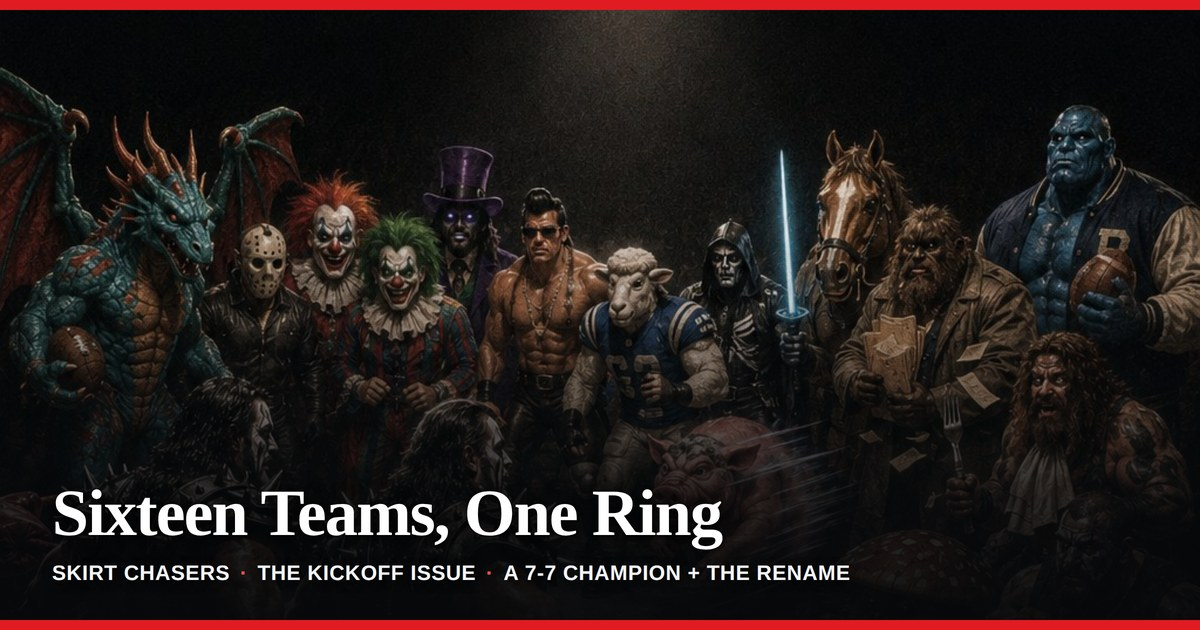
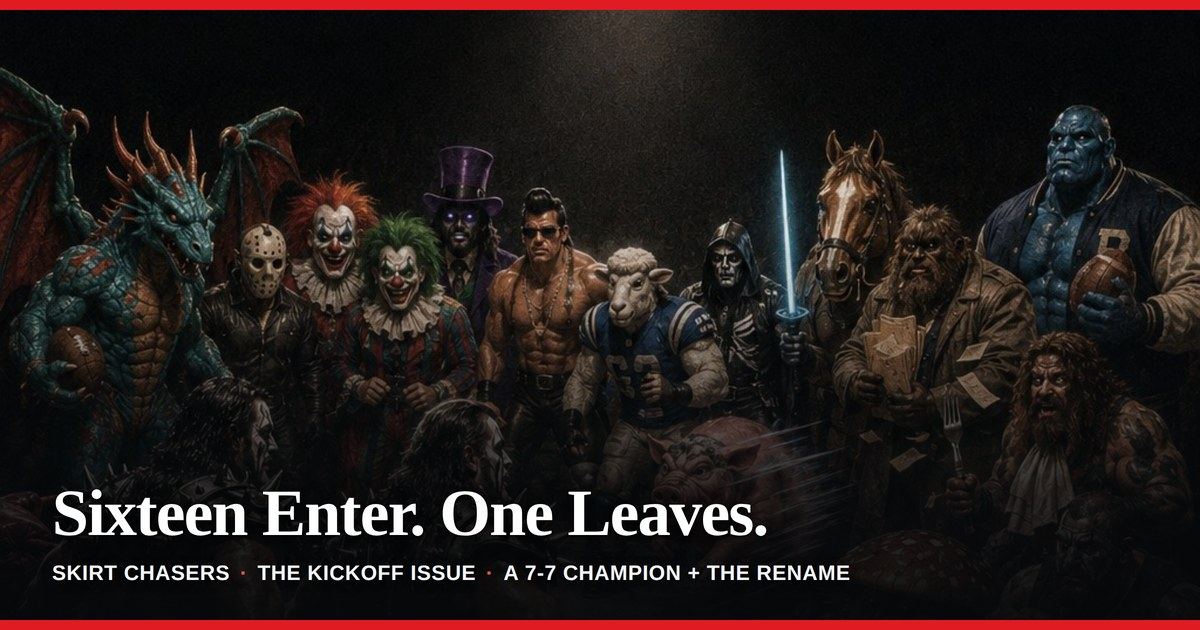
Kickoff cover: more hype
The coverlines read like a broadsheet on an issue whose cover is sixteen
monsters in a wrestling ring. Rewritten to match the art:

  Sixteen Enter. One Leaves.

with coverlines that lead on the stakes rather than the numbers -- the
champion nobody fears, one of these men loses his name, the group of
death, who's loaded and who's cooked. Every claim is still one the issue
backs up: 7-7 and holding the ring, the 821-point rename, the three
biggest offences sharing a division, all sixteen previewed, 2,344 games
of head-to-head.

Adds scripts/build_og.py so the share card is regenerated from the same
config as the cover instead of being assembled by hand -- the hook was
already drifting between the two.

Changed region(s): [[0.2158, 0.754, 0.6475, 0.8746]]

diff --git a/scfl-kickoff-2026.html b/scfl-kickoff-2026.html
@@ -6,12 +6,12 @@
 <meta property="og:type" content="article">
 <meta property="og:site_name" content="Skirt Chasers — Dynasty League Magazine">
 <meta property="og:title" content="Skirt Chasers — The 2026 Kickoff Issue">
-<meta property="og:description" content="A 7-7 champion, a name change decided by 207 points, the division that holds the three best offences in the league, and all sixteen teams previewed.">
+<meta property="og:description" content="Sixteen teams enter. One leaves with the ring. A 7-7 champion with a target on his back, a rename decided by 207 points, the division that will eat two contenders alive, and all sixteen scouted.">
 <meta property="og:url" content="https://watsoncapitalinvest-dot.github.io/Claude/scfl-kickoff-2026.html">
 <meta property="og:image" content="https://watsoncapitalinvest-dot.github.io/Claude/scfl-kickoff-og.jpg">
 <meta name="twitter:card" content="summary_large_image">
 <meta name="twitter:title" content="Skirt Chasers — The 2026 Kickoff Issue">
-<meta name="twitter:description" content="The 2026-27 SCFL season starts here.">
+<meta name="twitter:description" content="Sixteen enter. One leaves. The 2026-27 SCFL season starts here.">
 <meta name="twitter:image" content="https://watsoncapitalinvest-dot.github.io/Claude/scfl-kickoff-og.jpg">
 <link rel="icon" href="newsroom-favicon.png">
 <style>
@@ -114,7 +114,7 @@ p.b b{color:var(--ink);}
 </head>
 <body>
 <div class="book"><div class="pages">
-<section class="page cover-page"><div class="magcover" style="--teaser:url('scfl-kickoff-cover.jpg')"><div class="cov-top"><img class="mag-logo" src="wordmark.png" alt="Skirt Chasers — Dynasty League Magazine"><div class="mag-issue">2026&ndash;27 Season &middot; The Kickoff Issue</div><div class="preseal">Kickoff<small>Issue</small></div></div><div class="cov-bottom"><div class="mag-hook">Sixteen Teams, One Ring</div><div class="mag-name">The champion who lost more than he won, the rename nobody wants, and the division that eats its own.</div><div class="mag-lines"><div class="mag-line">THE CHAMPION: 7-7, THE FEWEST POINTS IN THE FIELD</div><div class="mag-line">THE RENAME: 821 TO 1,028, AND THE HITTERS WEAR IT</div><div class="mag-line">BLACK AND BLUE: THE THREE BEST OFFENCES, ONE DIVISION</div><div class="mag-line">THE PREVIEW: ALL SIXTEEN TEAMS, GRADED AND RANKED</div><div class="mag-line">THE GRUDGE REPORT: 2,344 GAMES, EVERY RIVALRY RANKED</div></div><img class="mag-shield" src="scfl-shield.png" alt="SCFL"></div></div></section>
+<section class="page cover-page"><div class="magcover" style="--teaser:url('scfl-kickoff-cover.jpg')"><div class="cov-top"><img class="mag-logo" src="wordmark.png" alt="Skirt Chasers — Dynasty League Magazine"><div class="mag-issue">2026&ndash;27 Season &middot; The Kickoff Issue</div><div class="preseal">Kickoff<small>Issue</small></div></div><div class="cov-bottom"><div class="mag-hook">Sixteen Enter. One Leaves.</div><div class="mag-name">A 7-7 champion with a target on his back, a division that will eat two contenders alive, and one man about to lose his name.</div><div class="mag-lines"><div class="mag-line">THE CHAMPION NOBODY FEARS: 7-7, AND HE STILL HAS THE RING</div><div class="mag-line">ONE OF THESE MEN LOSES HIS NAME</div><div class="mag-line">THE GROUP OF DEATH: THREE MONSTER OFFENCES, ONE DIVISION</div><div class="mag-line">ALL 16 SCOUTED: WHO&rsquo;S LOADED, WHO&rsquo;S COOKED</div><div class="mag-line">THE GRUDGE REPORT: 2,344 GAMES, EVERY RIVALRY RANKED</div></div><img class="mag-shield" src="scfl-shield.png" alt="SCFL"></div></div></section>
 <section class="page"><div class="page-inner"><div class="runhead">Skirt Chasers &middot; The Kickoff Issue &middot; August 2026</div><span class="flag">In this issue</span><h1 class="hl">The 2026 Kickoff Issue</h1><ul class="toc"><li><span class="n">1</span><span class="t">The Champion Who Lost More Than He Won<span class="k">THE DEFENDING CHAMPION</span></span></li><li><span class="n">2</span><span class="t">Two Wins, Eight Hundred and Twenty-One Points, One New Name<span class="k">THE NAME CHANGE</span></span></li><li><span class="n">3</span><span class="t">Everything Good Is in One Division<span class="k">THE GROUP OF DEATH</span></span></li><li><span class="n">4</span><span class="t">All Sixteen, Division by Division<span class="k">THE SEASON PREVIEW</span></span></li><li><span class="n">5</span><span class="t">The Grudge Report<span class="k">SPECIAL REPORT — THE RIVALRY AUDIT</span></span></li><li><span class="n">6</span><span class="t">The Man Who Would Not Sell<span class="k">SPECIAL FEATURE — THE HILL STANDOFF</span></span></li></ul></div></section>
 <section class="page"><div class="page-inner"><div class="runhead">Skirt Chasers &middot; The Kickoff Issue &middot; August 2026</div><div class="divider"><div class="d-flag">THE DEFENDING CHAMPION</div><div class="d-h">The Champion Who Lost More Than He Won</div><div class="d-s">The Powers of Pain won the 2025 title at 7-7 with the fewest points of any team in the field. The format left the door open. He walked through it.</div><div class="d-rule"></div></div><p class="b">Here is the 2025 season in one line. The Powers of Pain finished 7-7. He scored 1,183 points, fewer than any other team that made the playoffs and fewer than four teams that missed. He is the champion.</p><p class="b">None of that is a scandal, and none of it is an accident. It is the format doing exactly what the format was built to do, and it is worth understanding before anybody sets a lineup this year.</p><div class="sect">How It Happens</div><p class="b">Eight teams qualify: the four division winners, plus two wild cards from each conference. Win your division and you are in, and you are seeded above every wild card no matter what the record says. The Powers of Pain came out of the Spectre Syndicate at 7-7, from a division where the Guido Haters also finished 7-7 and Still The Cream finished 2-12. Somebody had to come out of it.</p></div></section>
 <section class="page"><div class="page-inner"><div class="runhead">Skirt Chasers &middot; The Kickoff Issue &middot; August 2026</div><p class="b">What the format rewards is not being the best team in the league across fourteen weeks. It is being the best team in three particular ones.</p><p class="b">He was. That is the whole point of a postseason, and anyone who wants to be sour about it should look at the 2024 champion, the Killer Klowns, who won the whole thing at 6-8.</p><div class="sect">What It Means For 2026</div><p class="b">Two things, and they pull in opposite directions.</p><p class="b">The first is that a division title is worth more in this league than in almost any comparable format. It is not a tiebreaker or a banner — it is a seed, and the seed is the whole tournament. Four of the sixteen teams in this league will get in on a technicality this year. Do not spend December scoreboard-watching for a wild card if you can simply win four games in your own division.</p><p class="b">The second is that the Powers of Pain has to do it again from a harder position. He is no longer the surprise. He has the trophy, he has the target, and he is in a division with the Guido Haters, who matched his record last year, and a Still The Cream side that just drew the best draft grade in the league.</p></div></section>
@@ -159,5 +159,5 @@ function prev(){if(busy||cur<=0)return;busy=true;hideHint();var leaf=pages[cur-1
 function hideHint(){if(hint){hint.classList.add('gone');setTimeout(function(){hint&&hint.remove&&hint.remove();},700);hint=null;}}
 nextB.addEventListener('click',next);prevB.addEventListener('click',prev);document.addEventListener('keydown',function(ev){if(ev.key==='ArrowRight')next();else if(ev.key==='ArrowLeft')prev();});
 var sx=0,sy=0,axis='';document.addEventListener('touchstart',function(ev){var t=ev.touches[0];sx=t.clientX;sy=t.clientY;axis='';},{passive:true});document.addEventListener('touchmove',function(ev){var t=ev.touches[0];var dx=t.clientX-sx,dy=t.clientY-sy;if(!axis&&(Math.abs(dx)>10||Math.abs(dy)>10))axis=Math.abs(dx)>Math.abs(dy)?'x':'y';if(axis==='x')ev.preventDefault();},{passive:false});document.addEventListener('touchend',function(ev){var t=ev.changedTouches[0];var dx=t.clientX-sx;if(axis==='x'&&Math.abs(dx)>55){if(ev.cancelable)ev.preventDefault();if(dx<0)next();else prev();}},{passive:false});settle();})();</script>
-<script>document.getElementById("shareBtn").addEventListener("click",async function(){var u=location.href.split("#")[0];var data={title:"Skirt Chasers \u2014 The 2026 Kickoff Issue",text:"The 2026-27 SCFL season starts here.",url:u};if(navigator.share){try{await navigator.share(data);return;}catch(e){if(e&&e.name==="AbortError")return;}}try{await navigator.clipboard.writeText(u);}catch(e){}var b=this,t=b.textContent;b.textContent="\u2713 Link copied";setTimeout(function(){b.textContent=t;},1800);});</script>
+<script>document.getElementById("shareBtn").addEventListener("click",async function(){var u=location.href.split("#")[0];var data={title:"Skirt Chasers \u2014 The 2026 Kickoff Issue",text:"Sixteen enter. One leaves. The 2026-27 SCFL season starts here.",url:u};if(navigator.share){try{await navigator.share(data);return;}catch(e){if(e&&e.name==="AbortError")return;}}try{await navigator.clipboard.writeText(u);}catch(e){}var b=this,t=b.textContent;b.textContent="\u2713 Link copied";setTimeout(function(){b.textContent=t;},1800);});</script>
 </body></html>

diff --git a/scripts/build_og.py b/scripts/build_og.py
@@ -1,0 +1,89 @@
+#!/usr/bin/env python3
+"""Render an issue's share card.
+
+    python3 scripts/build_og.py kickoff-2026
+
+House format, matching scfl-postdraft-og.jpg: 1200x630, red bars top and
+bottom, the issue's hook in white serif at the bottom left, and a line of
+caps beneath it with red middots. Reads the hook straight out of
+build_issue.ISSUES so the card and the cover never drift apart.
+
+Rendered in the browser rather than drawn with PIL so the type matches the
+site's own font stack.
+"""
+import importlib.util, os, re, subprocess, sys, tempfile
+
+ROOT = os.path.dirname(os.path.dirname(os.path.abspath(__file__)))
+PORT = 8991
+BROWSER = '/opt/pw-browsers/chromium'
+
+spec = importlib.util.spec_from_file_location('bi', os.path.join(ROOT, 'scripts', 'build_issue.py'))
+bi = importlib.util.module_from_spec(spec)
+spec.loader.exec_module(bi)
+
+# The strip of the cover art the card crops to, as a background-position Y.
+FOCUS = {'kickoff-2026': '34%'}
+
+CARD = """<style>
+*{{margin:0;padding:0;box-sizing:border-box}}
+html,body{{width:1200px;height:630px;overflow:hidden}}
+.card{{position:relative;width:1200px;height:630px;overflow:hidden;background:#0b0f14;
+ border-top:10px solid #e11b22;border-bottom:10px solid #e11b22}}
+.art{{position:absolute;inset:0;background:url('{art}') center {focus}/cover no-repeat}}
+.scrim{{position:absolute;inset:0;background:linear-gradient(180deg,rgba(6,8,10,.30) 0%,
+ rgba(6,8,10,0) 22%,rgba(6,8,10,.18) 48%,rgba(6,8,10,.80) 78%,rgba(6,8,10,.96) 100%)}}
+.txt{{position:absolute;left:52px;right:52px;bottom:34px}}
+.hook{{font-family:Georgia,'Liberation Serif','Times New Roman',serif;font-weight:700;
+ font-size:{size}px;line-height:.95;letter-spacing:-1.5px;color:#fff;
+ text-shadow:0 3px 22px rgba(0,0,0,.95),0 1px 3px rgba(0,0,0,.9)}}
+.line{{margin-top:16px;font-family:Helvetica,'Liberation Sans',Arial,sans-serif;font-weight:700;
+ font-size:21px;letter-spacing:.5px;text-transform:uppercase;color:#f3f5f8;
+ text-shadow:0 2px 10px rgba(0,0,0,.98)}}
+.line i{{font-style:normal;color:#ff5442;padding:0 10px}}
+</style>
+<div class="card"><div class="art"></div><div class="scrim"></div>
+<div class="txt"><div class="hook">{hook}</div><div class="line">{line}</div></div></div>"""
+
+SHOT = """const {{chromium}}=require('playwright');
+(async()=>{{
+const b=await chromium.launch({{executablePath:'%s'}});
+const p=await b.newPage({{viewport:{{width:1200,height:630}},deviceScaleFactor:2}});
+await p.goto('http://127.0.0.1:%d/{tmp}',{{waitUntil:'networkidle'}});
+await p.waitForTimeout(600);
+await p.screenshot({{path:'{out}'}});
+await b.close();
+}})();""" % (BROWSER, PORT)
+
+
+def build(key):
+    cfg = bi.ISSUES[key]
+    art = cfg['art']
+    if not os.path.exists(os.path.join(ROOT, art)):
+        sys.exit(f'cover art {art} not present — nothing to make a card from')
+
+    line = '<i>&middot;</i>'.join(cfg['ogline'])
+    hook = cfg['hook']
+    size = 66 if len(hook) <= 28 else 56
+
+    tmp = '.og-tmp.html'
+    open(os.path.join(ROOT, tmp), 'w', encoding='utf-8').write(
+        CARD.format(art=art, focus=FOCUS.get(key, 'center'), hook=hook, line=line, size=size))
+    raw = os.path.join(tempfile.gettempdir(), f'og-{key}.png')
+    js = os.path.join(tempfile.gettempdir(), f'og-{key}.js')
+    open(js, 'w').write(SHOT.format(tmp=tmp, out=raw))
+    try:
+        env = dict(os.environ, NODE_PATH='/opt/node22/lib/node_modules')
+        subprocess.run(['node', js], check=True, env=env, cwd=ROOT)
+        from PIL import Image
+        im = Image.open(raw).convert('RGB').resize((1200, 630), Image.LANCZOS)
+        out = os.path.join(ROOT, cfg['og'])
+        im.save(out, 'JPEG', quality=88, optimize=True)
+        print(f"wrote {cfg['og']} 1200x630 | {hook}")
+    finally:
+        for f in (os.path.join(ROOT, tmp), js, raw):
+            if os.path.exists(f):
+                os.remove(f)
+
+
+if __name__ == '__main__':
+    build(sys.argv[1] if len(sys.argv) > 1 else 'kickoff-2026')

diff --git a/scripts/build_issue.py b/scripts/build_issue.py
@@ -29,20 +29,22 @@ ISSUES={
    'art':'scfl-kickoff-cover.jpg',
    'og':'scfl-kickoff-og.jpg',
    'ogtitle':'Skirt Chasers — The 2026 Kickoff Issue',
-   'ogdesc':("A 7-7 champion, a name change decided by 207 points, the division that holds the three "
-             "best offences in the league, and all sixteen teams previewed."),
-   'sharetext':'The 2026-27 SCFL season starts here.',
+   'ogdesc':("Sixteen teams enter. One leaves with the ring. A 7-7 champion with a target on his "
+             "back, a rename decided by 207 points, the division that will eat two contenders "
+             "alive, and all sixteen scouted."),
+   'sharetext':'Sixteen enter. One leaves. The 2026-27 SCFL season starts here.',
    'kicker':'The Magazine · Aug 2026',
    'seal':('Kickoff','Issue'),
    'issueline':'2026&ndash;27 Season &middot; The Kickoff Issue',
-   'hook':'Sixteen Teams, One Ring',
-   'hooksub':('The champion who lost more than he won, the rename nobody wants, '
-              'and the division that eats its own.'),
+   'hook':'Sixteen Enter. One Leaves.',
+   'ogline':['Skirt Chasers','The Kickoff Issue','A 7-7 Champion + The Rename'],
+   'hooksub':('A 7-7 champion with a target on his back, a division that will eat two '
+              'contenders alive, and one man about to lose his name.'),
    'coverlines':[
-     'THE CHAMPION: 7-7, THE FEWEST POINTS IN THE FIELD',
-     'THE RENAME: 821 TO 1,028, AND THE HITTERS WEAR IT',
-     'BLACK AND BLUE: THE THREE BEST OFFENCES, ONE DIVISION',
-     'THE PREVIEW: ALL SIXTEEN TEAMS, GRADED AND RANKED',
+     'THE CHAMPION NOBODY FEARS: 7-7, AND HE STILL HAS THE RING',
+     'ONE OF THESE MEN LOSES HIS NAME',
+     'THE GROUP OF DEATH: THREE MONSTER OFFENCES, ONE DIVISION',
+     'ALL 16 SCOUTED: WHO&rsquo;S LOADED, WHO&rsquo;S COOKED',
      'THE GRUDGE REPORT: 2,344 GAMES, EVERY RIVALRY RANKED',
    ],
    'articles':['kick-2026-champion','kick-2026-namechange','kick-2026-blackandblue',
